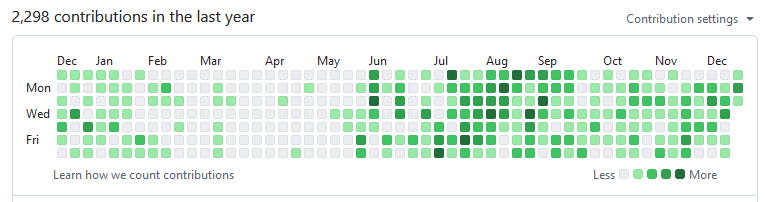
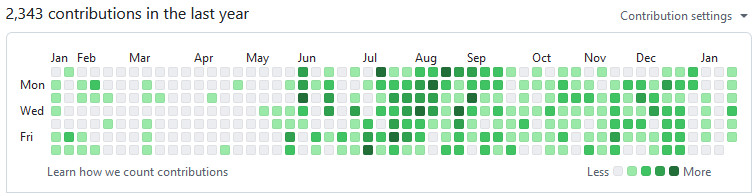
Finish writing CV

diff --git a/index.md b/index.md
@@ -4,7 +4,17 @@ title: CV
 
 ## About me
 
-Experience: 4 years
+![](/assets/github_activity.png)
+
+- Programming is my passion, I do it as a job and in my free time
+- 4 years commercial experience, 10 years overall (see my [github history](https://github.com/girvel))
+
+### Skills
+
+- Readable and maintainable code [\[1\]](https://github.com/girvel/fallen/blob/6403fa1b2e065861b3e76af4e1edf1e8ad09c3f0/tech/sound.lua) [\[2\]](https://github.com/girvel/ldump/blob/f644aafafadd49ca258d605bfaa1c05379577d30/init.lua) and documentation [\[3\]](https://github.com/girvel/ldump/blob/f644aafafadd49ca258d605bfaa1c05379577d30/README.md)
+- Languages: Python, C#, Lua as main languages in professional setting, a ton of languages on habitual level (C, Rust, JavaScript, ...)
+- Backend keywords: FastAPI, Tarantool, Flask, PostgreSQL, Git, Docker, Shell, Linux
+- Real-world languages: Russian (native), English
 
 
 ## Jobs
@@ -42,13 +52,27 @@ Experience: 4 years
 
 Robust serialization library supporting all lua types and edge cases.
 
+- Thoroughly documented
+- Thoroughly tested (34 tests)
+- The only Lua serialization library that covers all possible cases
+
 ### [looper](https://github.com/girvel/looper)
 
 Repetitive task management utility for command line; written in Rust using TOML + cron expressions.
+
+- Minimalistic, fully solves the problem and avoids unnecessary complexity
 
 ### [fallen](https://github.com/girvel/fallen)
 
 2D mini-RPG adventure game; custom engine based on LOVE.
 
+- 17500 lines of code (from which 12500 is engine code), 1300 commits
+- Asynchronous scripting engine
+- Uses LDtk for visual level editing
+
 
 ## Contacts
+
+- Email: [widauka@ya.ru](widauka@ya.ru)
+- Telegram: [@girvel](https://t.me/girvel)
+- Github page: [@girvel](https://github.com/girvel)
